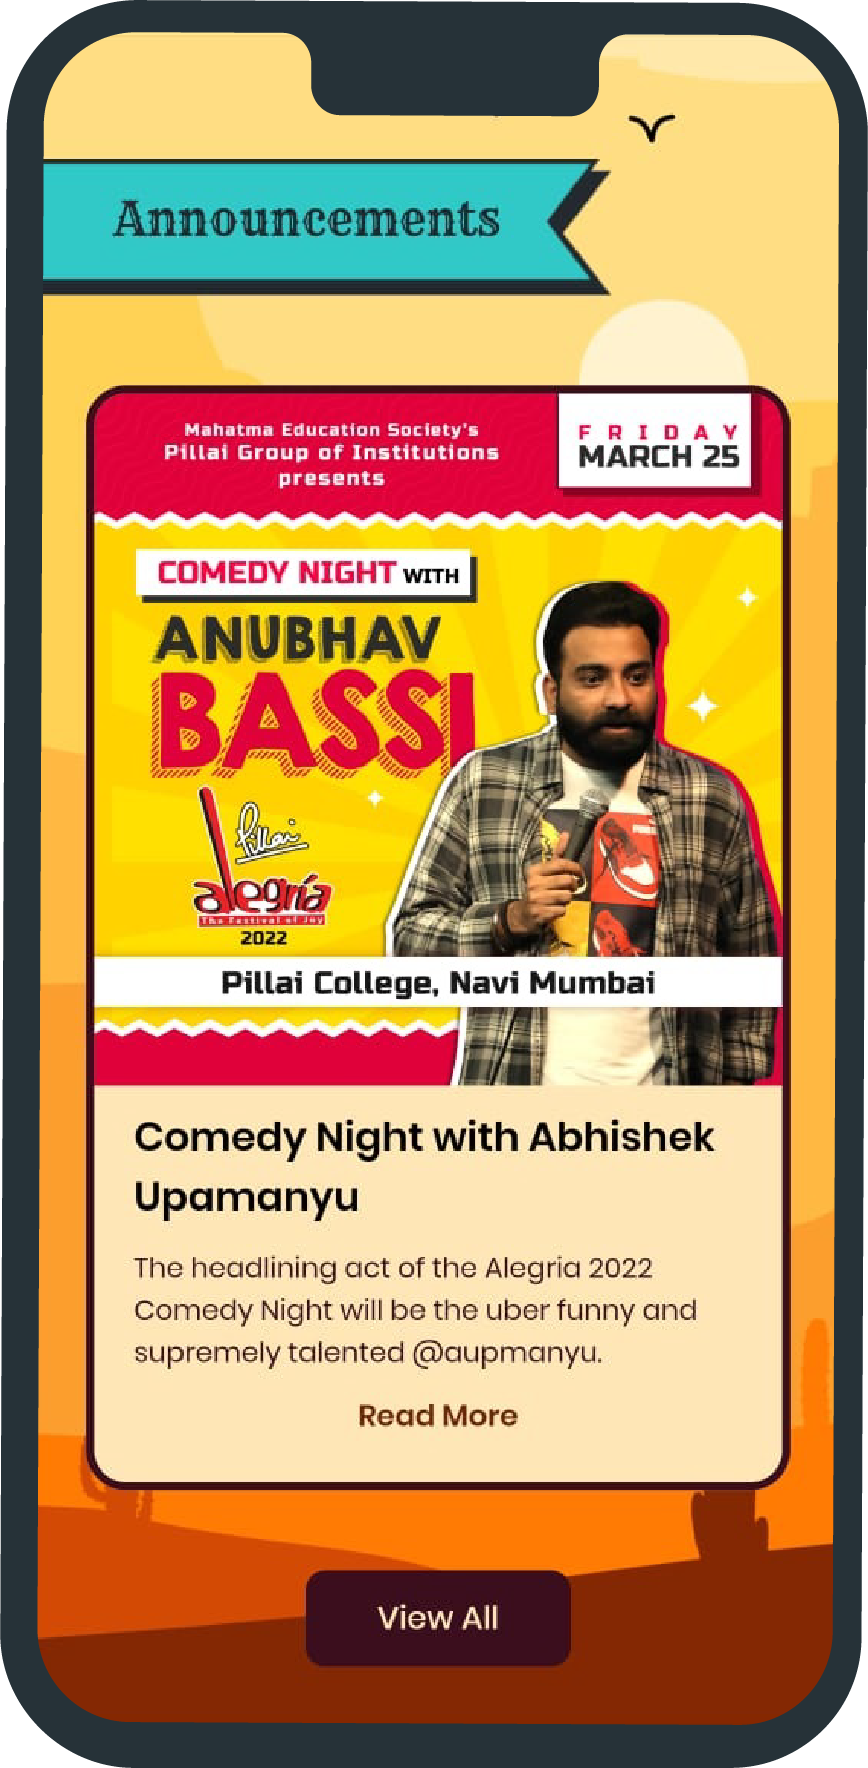
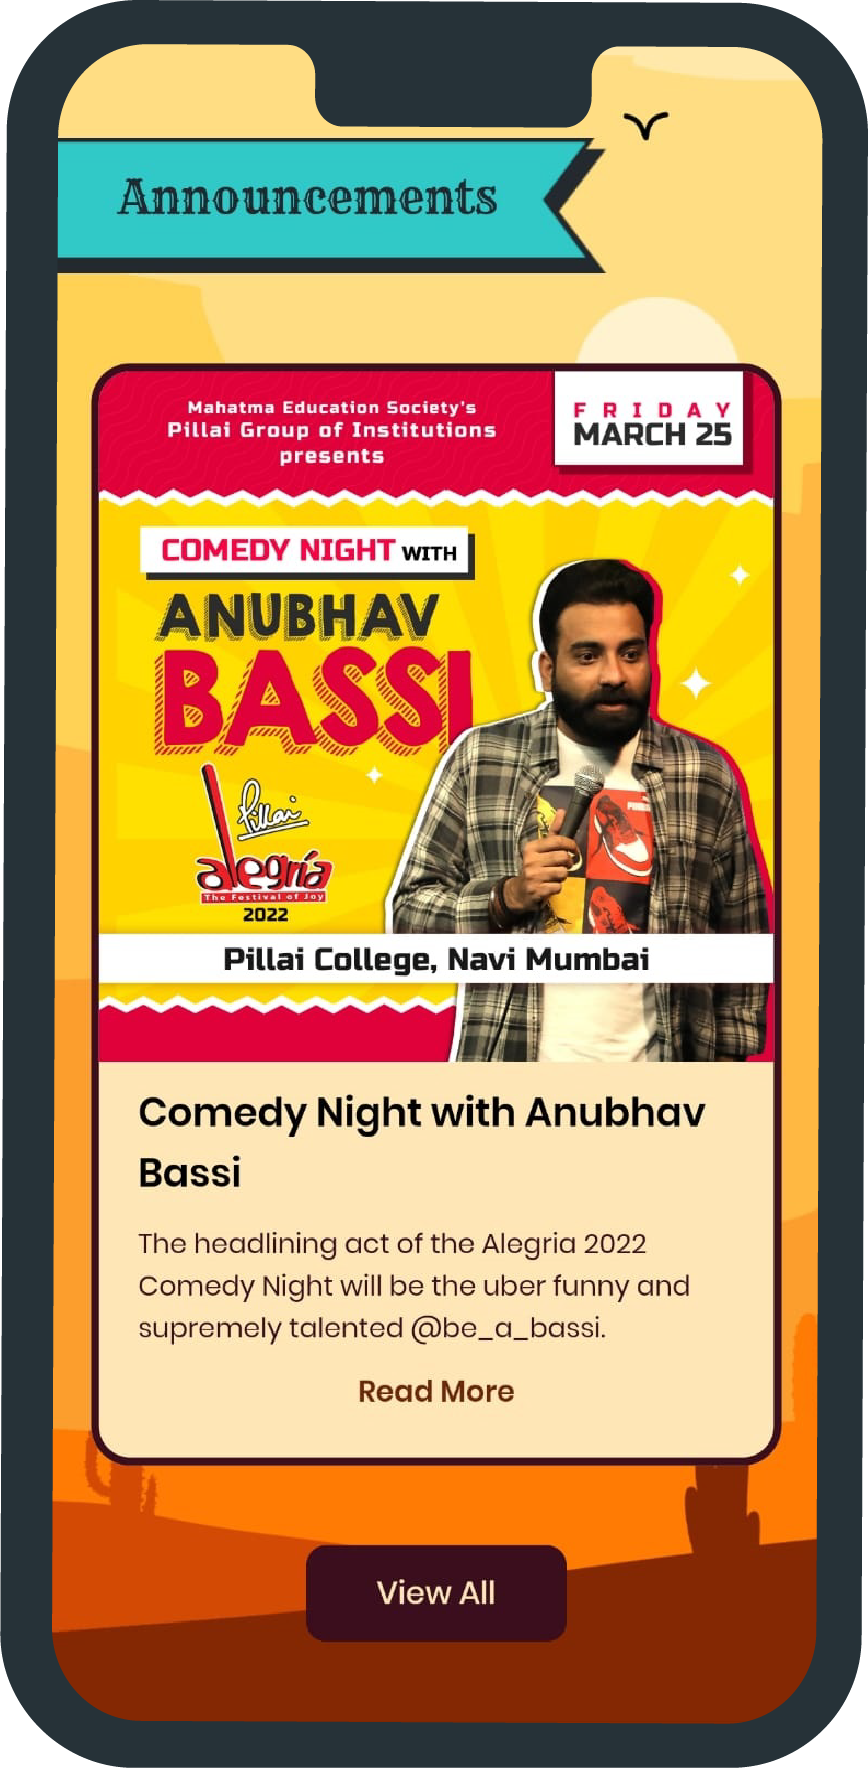
added priyank sharma details

diff --git a/views/api.py b/views/api.py
@@ -145,16 +145,46 @@ class AnnoucementsAPI(Resource):
     def get(self):
         content = [
             {
-                "title": "Comedy Night with Abhishek Upamanyu",
-                "subtitle": "The headlining act of the Alegria 2022 Comedy Night will be the uber funny and supremely talented @aupmanyu.",
+                "title": "Comedy Night with Anubhav Bassi",
+                "subtitle": "The headlining act of the Alegria 2022 Comedy Night will be one India's biggest stand up comedians @be_a_bassi.",
                 "image": "https://www.alegria.co.in/static/images/homepage/mobile-poster.jpg",
                 "link": "https://www.alegria.co.in/artists/a1",
             },
             {
                 "title": "Concert Night with Arjun Kanungo",
-                "subtitle": "Live In Concert 26 th March 2022, Saturday",
+                "subtitle": "Alegria 2022 will bring to you the heartthrob Arjun Kanungo who will be live in concert on Saturday, 26th March at @pillaiscollege. The singer of famous hits such as 'Aaya Na Tu, Fursat, Baaki Baatein Peene Baad' and many more is all set to perform live for the first time in Navi Mumbai and steal your heart with his mesmerizing voice.",
                 "image": "https://www.alegria.co.in/static/images/homepage/arjun-poster.jpg",
                 "link": "https://www.alegria.co.in/artists/a2",
+            },
+            {
+                "title": "Judge For Duet Dance - Shraddha Das",
+                "subtitle": "Catch this talented actress on 25th March, Friday 2022.Catch this talented actress on 25th March, Friday 2022. A woman with beauty and brains, and multiple successes to her name! ",
+                "image": "https://www.alegria.co.in/static/images/homepage/shraddha_das-poster.jpg",
+                "link": "https://www.alegria.co.in/artists/a3",
+            },
+            {
+                "title": "Judge for Face of Alegria - Anusha Dandekar",
+                "subtitle": "One of the headlining events of Alegria - the festival of joy, Face of Alegria has always been star studded. To add to the glamour and grace, the one and only, VJ, actor and singer Anusha Dandekar is going to judge this magnificent event.",
+                "image": "https://www.alegria.co.in/static/images/homepage/anusha_dandekar-poster.jpg",
+                "link": "https://www.alegria.co.in/artists/a4",
+            },
+            {
+                "title": "Judge for Freestyle Group Dance - Suresh Mukund",
+                "subtitle": "One of India's biggest dance choreographers Suresh Mukund, the founder of @kings_united_india will be the judge of the freestyle group dance competition at Pillai Alegria 2022. 🔥",
+                "image": "https://www.alegria.co.in/static/images/homepage/suresh_mukund-poster.jpg",
+                "link": "https://www.alegria.co.in/artists/a5",
+            },
+            {
+                "title": "Judge for Mr. & Ms. Alegria - Chetna Pande",
+                "subtitle": "Here's presenting the judge for our headlining event 'Mr. & Ms. Alegria' Personality Contest, Ms. Chetna Pande, one of the most glamorous stars in the industry who will be wooing the crowd with her stunning looks!",
+                "image": "https://www.alegria.co.in/static/images/homepage/chetna_pande-poster.jpg",
+                "link": "https://www.alegria.co.in/artists/a6",
+            },
+            {
+                "title": "Judge for Freestyle Solo Dance - Priyank Sharma",
+                "subtitle": "The heartthrob @priyanksharmaaa will be the judge for the freestyle solo dance competition at Pillai Alegria 2022. Priyank has been part of many shows including MTV Roadies, MTV Splitsvilla and Bigg Boss.",
+                "image": "https://www.alegria.co.in/static/images/homepage/priyank_sharma-poster.png",
+                "link": "https://www.alegria.co.in/artists/a7",
             }
             ]
 

diff --git a/basicData.py b/basicData.py
@@ -157,7 +157,7 @@ events_list=[
 }, {
     "title": "Technical Workshop",
     "content": "Come here and get a chance  to explore and learn new technical skills at a reasonable price in our technical workshops.",
-    "link": '/events/technical-workshops',
+    "link": '/events/technical-workshop',
     "icon": '/static/images/icons/Category%20Icons/Technical_workshop.jpeg'
 }, {
     "title": "Management",
@@ -485,5 +485,5 @@ artistDetails={
     "name":"Priyank Sharma",
     "type":"Judge for Freestyle Solo Dance",
     "img":"../static/images/homepage/priyank_sharma-poster.png",
-    "p":"<p class='fs-7 sec-font text-black' style='text-align: justify;'></p>"
+    "p":"<p class='fs-7 sec-font text-black' style='text-align: justify;'></p>Priyank Sharma a multipotentialite, who has carved his name in the fields of acting, dancing and reality shows is all set to step his foot in Pillai’s Alegria as the judge for Freestyle Solo Dance. Priyank started his journey as a dancer in showbiz with Shaimak Davar’s dancing troupe. He rose to fame with his appearance on MTV Roadies to move on to being a finalist on MTV Splitsvilla followed by being a part of one of the biggest Indian Reality TV shows- BiggBoss. With his tough and charming personality, he became a huge craze among the youth in no time.</p><p class='fs-7 sec-font text-black' style='text-align: justify;'></p>From Reality TV shows he leapt into the Bollywood industry, making his debut with Aastha Gill and Badshah’s chart breaking song ‘BUZZ’. He then starred in many popular music videos like ‘Saara India’ and ‘Raanjhana’ and became a familiar face in the music video space. With the web series ‘Puncch Beat’, ‘The Holiday’ and ‘Mumbhai’ to his name, Priyank has made an unhindered spot for himself in the acting field.</p><p class='fs-7 sec-font text-black' style='text-align: justify;'></p>From being an ordinary boy in a middle-class family to being India’s heartthrob, Priyank took this voyage to be who he is today. Pillai College is all set to Welcome this multi-talented personality on 26th March to rock the Alegria stage with his moves and to guide and evaluate all the participants of Freestyle Solo. So buckle up and get ready for your hearts to be stolen by his charm and his groovy moves. Bring along your friends and have the time of your life in Alegria 2022.</p>"
 }}
